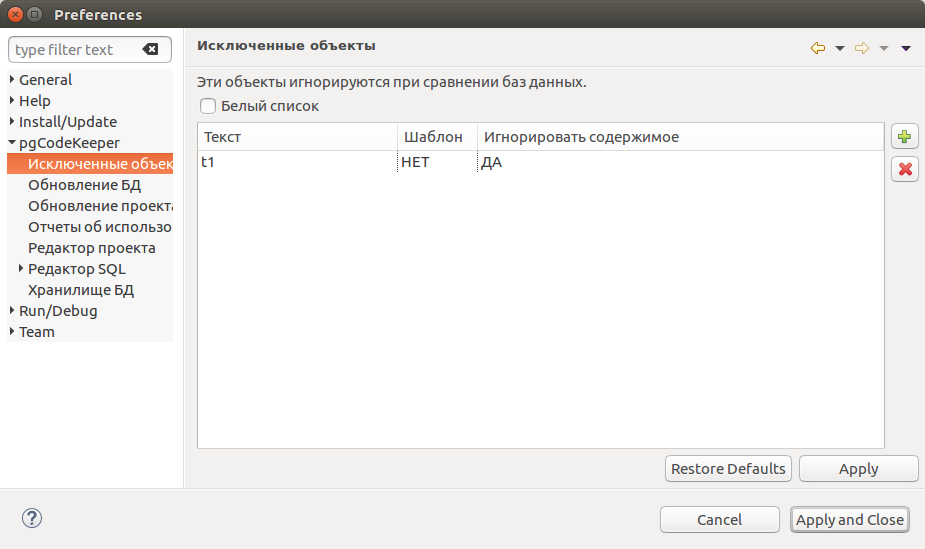
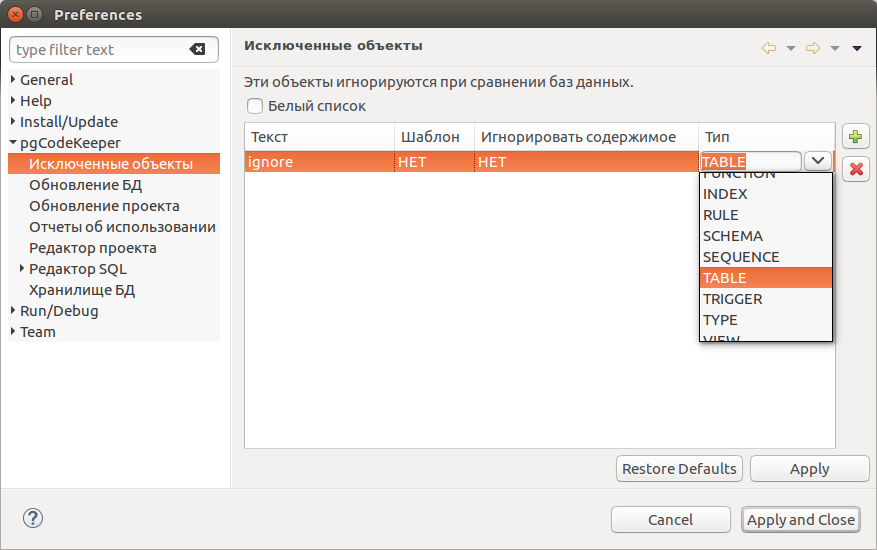
added filter description by type in ignore list

diff --git a/docs/preferences.rst b/docs/preferences.rst
@@ -1,6 +1,6 @@
-=========
-Настройки
-=========
+====================
+Глобальные настройки
+====================
 
 Основные настройки pgCodeKeeper
 ~~~~~~~~~~~~~~~~~~~~~~~~~~~~~~~
@@ -18,15 +18,44 @@
 Исключенные объекты
 ~~~~~~~~~~~~~~~~~~~
 
-Имена объектов, которые не должны учитываться при сравнении БД, можо указать на странице настроек **pgCodeKeeper -> Исключенные объекты**.
+Объекты, которые не должны учитываться при сравнении БД, можо указать на странице настроек **pgCodeKeeper -> Исключенные объекты**.
+
+Для добавления объекта в список исключенных или удаления из него, служат кнопки |add_obj| и  |delete| соответственно.
+
+При добавлении объекта в список исключенных можно выставить дополнительные настройки, которые влияют на исключение объекта при сравнении:
+
+- **Шаблон** – является ли имя объекта регулярным выражением.
+- **Игнорировать содержимое** – позволяет пропустить объекты, вложенные в исключенный.
+- **Тип** – тип объекта ("ALL" предназначен для указания любого типа объекта).
+
+.. image:: ../images/ignore_list_add_item.png
+
+Все дополнительные настройки списка доступны для редактирования.
 
 .. image:: ../images/ignore_list.png
 
-После добавления объекта в список исключенных, можно выставить дополнительные настройки, которые влияют на исключение объекта при сравнении:
+Настройка **Белый список** позволяет инвертировать черный список в белый.
 
-- **Белый список** – инвертировать ли черный список в белый
-- **Шаблон** – является ли имя объекта регулярным выражением.
-- **Игнорировать содержимое** – позволяет пропустить объекты, вложенные в исключенный.
+Примеры.
+
+Учтенные все объекты при сравнении БД:
+
+.. image:: ../images/ignore_list_diff.png
+
+Используется иселючение по дополнительной настройке **Шаблон**:
+
+.. image:: ../images/ignore_list_pattern.png
+.. image:: ../images/ignore_list_pattern_diff.png
+
+Используется иселючение по дополнительной настройке **Игнорировать содержимое**:
+
+.. image:: ../images/ignore_list_content.png
+.. image:: ../images/ignore_list_content_diff.png
+
+Используется иселючение по дополнительной настройке **Тип** и **Шаблон**:
+
+.. image:: ../images/ignore_list_type.png
+.. image:: ../images/ignore_list_type_diff.png
 
 .. _dbUpdate :
 

diff --git a/docs/white_black_list.rst b/docs/white_black_list.rst
@@ -18,19 +18,18 @@
 
 Формат файлов чувствителен к регистру. Кодировка – UTF-8.
 
-**Белый список**
-
- | # комментарий
- | SHOW ALL
- | HIDE flag [, ...] identifier [ db=identifier ] # комментарий
- | [ ... ]
-
-
 **Черный список**
 
  | # комментарий
+ | SHOW ALL
+ | HIDE flag [, ...] identifier [ db=identifier ] [ type=identifier ] # комментарий
+ | [ ... ]
+
+**Белый список**
+
+ | # комментарий
  | HIDE ALL
- | SHOW flag [, ...] identifier [ db=identifier ] # комментарий
+ | SHOW flag [, ...] identifier [ db=identifier ] [ type=identifier ] # комментарий
  | [ ... ]
 
 Где:
@@ -55,6 +54,7 @@ identifier
 Дополнительные опции:
 
 - db=identifier правило будет применено только к БД, имя которой подходит под регулярное выражение, заданное этим параметром
+- type=identifier правило будет применено только к объектам с указанным типом
 
 Ключевые слова:
 
